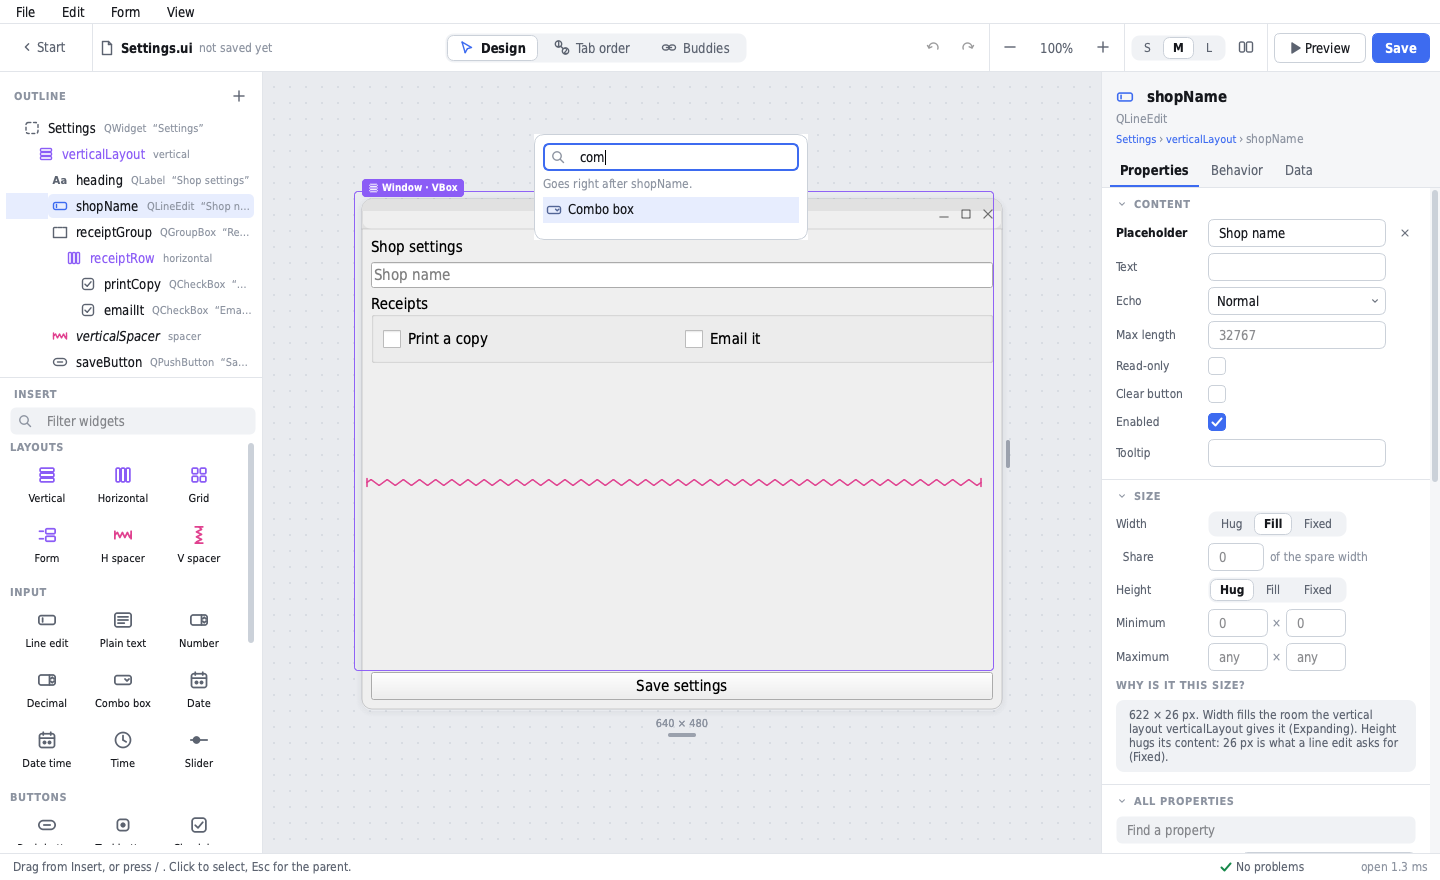
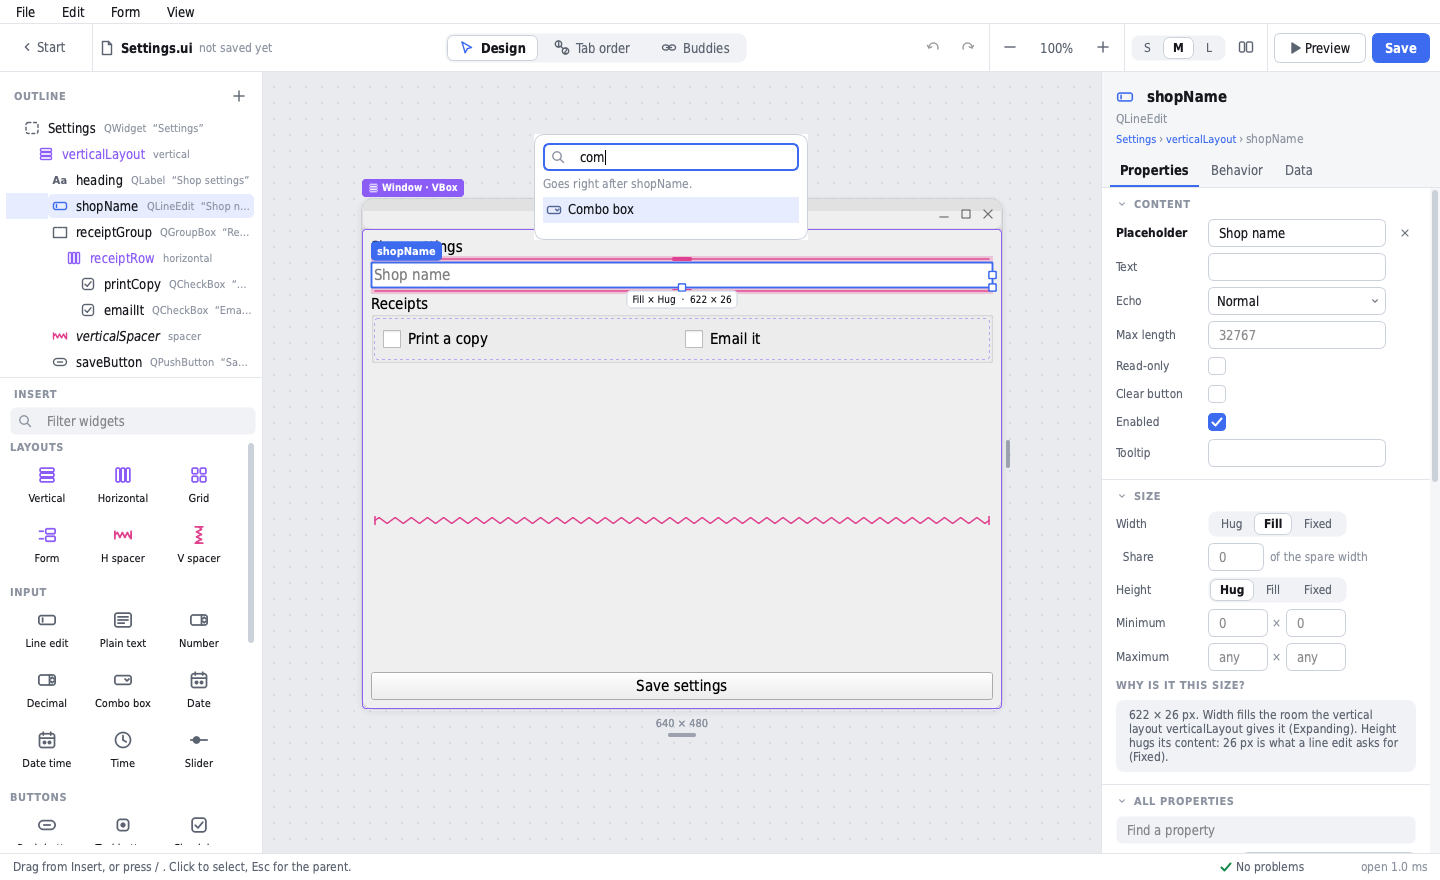
fix(form-builder): index after the form is shown, faster outline and problems, README
The hit index could record the form at the page corner when it was built
before the queued show ran; the form is now shown at once and watched for
moves. Outline rows reuse prebuilt flag sets, iter_nodes uses a stack,
problems() looks names up in a set, the tab-order list shows 40 rows.
Multi-select edits booleans with a tri-state box. The perf report also
records process time and the machine load. README and decisions updated.

Changed region(s): [[0.25, 0.2761, 0.7188, 0.3682], [0.6562, 0.583, 0.6875, 0.6136], [0.25, 0.5216, 0.2812, 0.5523]]

diff --git a/spikes/form_builder/inspector.py b/spikes/form_builder/inspector.py
@@ -1042,12 +1042,21 @@ class Inspector(QWidget):
         for widget in widgets[1:]:
             shared &= set(CURATED.get(widget.class_name, [])) | set(COMMON)
         for prop_name in sorted(shared):
-            values = {get_property(widget, prop_name).body.text if get_property(widget, prop_name) else "" for widget in widgets}
-            edit = QLineEdit(values.pop() if len(values) == 1 else "")
-            edit.setPlaceholderText("Mixed" if len(values) > 0 else "")
-            edit.setProperty("inspectorKey", f"multi:{prop_name}")
-            edit.editingFinished.connect(lambda name=prop_name, box=edit: self._set_many(widgets, name, box.text()))
-            self._row(grid, WORD_LABELS.get(prop_name, prop_name), edit)
+            live = [self._realized(widget.id) for widget in widgets]
+            values = {str(item.property(prop_name)) if item is not None else "" for item in live}
+            sample = live[0].property(prop_name) if live and live[0] is not None else None
+            if isinstance(sample, bool):
+                box = QCheckBox("Mixed" if len(values) > 1 else "")
+                box.setTristate(len(values) > 1)
+                box.setCheckState(Qt.PartiallyChecked if len(values) > 1 else (Qt.Checked if sample else Qt.Unchecked))
+                box.clicked.connect(lambda checked, name=prop_name: self._execute(SetProperties([w.id for w in widgets], name, prop_bool(name, checked))))
+                editor = box
+            else:
+                editor = QLineEdit(values.pop() if len(values) == 1 else "")
+                editor.setPlaceholderText("Mixed" if len(values) > 1 else "")
+                editor.editingFinished.connect(lambda name=prop_name, box=editor: self._set_many(widgets, name, box.text()))
+            editor.setProperty("inspectorKey", f"multi:{prop_name}")
+            self._row(grid, WORD_LABELS.get(prop_name, prop_name), editor)
         page.addWidget(section)
         size = Section("Size", "multi-size")
         size_grid = self._grid(size)
@@ -1125,19 +1134,22 @@ class Inspector(QWidget):
         listing.setDragDropMode(QAbstractItemView.InternalMove)
         listing.setFixedHeight(min(26 * max(len(order), 1) + 8, 220))
         listing.setUniformItemSizes(True)
-        for number, name in enumerate(order, start=1):
+        shown, rest = order[:40], order[40:]
+        for number, name in enumerate(shown, start=1):
             item = QListWidgetItem(f"{number}   {name}")
             item.setData(Qt.UserRole, name)
             listing.addItem(item)
 
         def reordered(*_args):
-            names = [listing.item(i).data(Qt.UserRole) for i in range(listing.count())]
+            names = [listing.item(i).data(Qt.UserRole) for i in range(listing.count())] + rest
             if names != order:
                 self._execute(SetTabStops(names))
 
         listing.model().rowsMoved.connect(reordered)
         if order:
             section.add(listing)
+            if rest:
+                section.add(label(f"…and {len(rest)} more. Use Tab order in the top bar to see them all on the form.", "Faint", wrap=True))
         else:
             listing.deleteLater()
             section.add(label("No fields yet. Inputs join the order as you add them.", "Small", wrap=True))

diff --git a/spikes/form_builder/model.py b/spikes/form_builder/model.py
@@ -371,30 +371,26 @@ def set_attribute(widget: Widget, name: str, text: str, kind: str = "string") ->
 
 
 def iter_nodes(doc: Document) -> Iterator[Node]:
-    def walk_widget(widget: Widget) -> Iterator[Node]:
-        yield widget
-        for part in widget.body:
-            if isinstance(part, Layout):
-                yield from walk_layout(part)
-            elif isinstance(part, Widget):
-                yield from walk_widget(part)
-            elif isinstance(part, Action):
-                yield part
-
-    def walk_layout(layout: Layout) -> Iterator[Node]:
-        yield layout
-        for part in layout.body:
-            if isinstance(part, LayoutItem):
-                yield part
-                for child in part.body:
-                    if isinstance(child, Widget):
-                        yield from walk_widget(child)
-                    elif isinstance(child, Layout):
-                        yield from walk_layout(child)
-                    elif isinstance(child, Spacer):
-                        yield child
-
-    yield from walk_widget(doc.root)
+    """Depth-first, document order. An explicit stack: nested generators cost O(depth) per node."""
+    stack = [doc.root]
+    while stack:
+        node = stack.pop()
+        yield node
+        if isinstance(node, Widget):
+            children = []
+            for part in node.body:
+                if isinstance(part, (Layout, Widget, Action)):
+                    children.append(part)
+            stack.extend(reversed(children))
+        elif isinstance(node, Layout):
+            children = []
+            for part in node.body:
+                if isinstance(part, LayoutItem):
+                    children.append(part)
+            stack.extend(reversed(children))
+        elif isinstance(node, LayoutItem):
+            children = [child for child in node.body if isinstance(child, (Widget, Layout, Spacer))]
+            stack.extend(reversed(children))
 
 
 def find_node(doc: Document, node_id: str):
@@ -562,7 +558,9 @@ def effective_tab_order(doc: Document) -> list[str]:
 def problems(doc: Document) -> list[str]:
     found = []
     seen: dict[str, int] = {}
-    for widget in iter_widgets(doc):
+    widgets = list(iter_widgets(doc))
+    known = {w.object_name for w in widgets}
+    for widget in widgets:
         name = widget.object_name
         if not valid_identifier(name):
             found.append(f"'{name or '(blank)'}' is not a Python identifier")
@@ -570,12 +568,11 @@ def problems(doc: Document) -> list[str]:
         buddy = get_property(widget, "buddy")
         if buddy is not None and buddy.body.tag == "cstring":
             target = buddy.body.text
-            if target and not any(w.object_name == target for w in iter_widgets(doc)):
+            if target and target not in known:
                 found.append(f"'{name}' buddies missing widget '{target}'")
     for name, count in seen.items():
         if name and count > 1:
             found.append(f"'{name}' is used {count} times")
-    known = {w.object_name for w in iter_widgets(doc)}
     stops = tabstops_of(doc)
     if stops:
         for name in stops.names:

diff --git a/spikes/form_builder/tests/test_perf.py b/spikes/form_builder/tests/test_perf.py
@@ -2,6 +2,7 @@
 
 from __future__ import annotations
 
+import os
 import resource
 import statistics
 import sys
@@ -43,12 +44,15 @@ class PerfBudgetTest(unittest.TestCase):
         rss_before = resource.getrusage(resource.RUSAGE_SELF).ru_maxrss
 
         opens = []
+        open_cpu = []
         for _index in range(5):
             started = time.perf_counter()
+            cpu_started = time.process_time()
             doc = load_path(str(FORM))
             window.load_document(doc, str(FORM))
             app.processEvents()
             opens.append((time.perf_counter() - started) * 1000)
+            open_cpu.append((time.process_time() - cpu_started) * 1000)
         widget_count = sum(1 for _widget in iter_widgets(window.doc))
         rss_after = resource.getrusage(resource.RUSAGE_SELF).ru_maxrss
         rss_delta = rss_after - rss_before
@@ -84,6 +88,8 @@ class PerfBudgetTest(unittest.TestCase):
         numbers = {
             "widgets": widget_count,
             "open_ms": opens,
+            "open_cpu_ms": open_cpu,
+            "load": os.getloadavg()[0],
             "insert_ms": inserts,
             "undo_ms": undos,
             "property_ms": props,
@@ -119,6 +125,7 @@ def _render(numbers) -> str:
         [
             f"widgets {numbers['widgets']}",
             "open " + span(numbers["open_ms"]) + "  budget 150",
+            "open cpu " + span(numbers["open_cpu_ms"]) + "  (process time; wall time above includes waiting for a busy machine)",
             "insert " + span(numbers["insert_ms"]) + "  budget 16",
             "property " + span(numbers["property_ms"]) + "  budget 16",
             "undo " + span(numbers["undo_ms"]) + "  budget 16",
@@ -126,6 +133,7 @@ def _render(numbers) -> str:
             f"rss extra {numbers['rss_extra_bytes'] / (1024 * 1024):.2f} MB  budget 30",
             "open times load plus the workbench, after QApplication already exists.",
             "edit times are command apply plus the canvas patch. The geometry index refreshes on the next pointer event.",
+            f"machine load average at the run: {numbers['load']:.1f}",
             "rss extra is ru_maxrss after five opens minus ru_maxrss of the empty window. It is a high-water mark, so it can include caches from the repeats. On macOS the unit is bytes.",
             "",
         ]

diff --git a/spikes/form_builder/outline.py b/spikes/form_builder/outline.py
@@ -60,6 +60,9 @@ ROLE_ID = Qt.UserRole
 ROLE_KIND = Qt.UserRole + 1
 ROLE_CLASS = Qt.UserRole + 2
 ROLE_HINT = Qt.UserRole + 3
+# PySide enum arithmetic runs in Python; build the flag sets once, not per row.
+FLAGS = Qt.ItemIsSelectable | Qt.ItemIsEnabled | Qt.ItemIsDragEnabled | Qt.ItemIsDropEnabled
+EDITABLE_FLAGS = FLAGS | Qt.ItemIsEditable
 
 
 class OutlineDelegate(QStyledItemDelegate):
@@ -185,7 +188,10 @@ class Outline(QTreeWidget):
             for part in self.doc.root.body:
                 if isinstance(part, Action):
                     root.addChild(self._action_item(part))
-            self._expand(root)
+            if self._collapsed:
+                self._expand(root)
+            else:
+                self.expandAll()
         self._quiet = False
         if selected:
             self.select_ids([node_id for node_id in selected if node_id in self._items], current_id)
@@ -203,10 +209,7 @@ class Outline(QTreeWidget):
         item.setData(0, ROLE_KIND, kind)
         item.setData(0, ROLE_CLASS, class_name)
         item.setData(0, ROLE_HINT, hint)
-        flags = Qt.ItemIsSelectable | Qt.ItemIsEnabled | Qt.ItemIsDragEnabled | Qt.ItemIsDropEnabled
-        if editable:
-            flags |= Qt.ItemIsEditable
-        item.setFlags(flags)
+        item.setFlags(EDITABLE_FLAGS if editable else FLAGS)
         self._items[node_id] = item
         return item
 

diff --git a/spikes/form_builder/canvas.py b/spikes/form_builder/canvas.py
@@ -906,6 +906,10 @@ class Surface(QGraphicsView):
         self.form.setPalette(runtime_palette())
         self.form.setFont(self.form_font)
         self.page_layout.addWidget(self.form)
+        # Show now: a hidden widget is skipped by its layout, and the hit index would
+        # record the form at the page corner until the queued show ran.
+        self.form.show()
+        self.form.installEventFilter(self)
         self.apply_size()
         self.index_dirty = True
         self.refresh_overlay()
@@ -1665,6 +1669,10 @@ class Surface(QGraphicsView):
 
     # -- events
     def eventFilter(self, watched, event):
+        if watched is self.form and event.type() in (QEvent.Resize, QEvent.Move, QEvent.LayoutRequest):
+            self.index_dirty = True
+            self.overlay.update()
+            return False
         if watched is not self.overlay or self.doc is None:
             return False
         kind = event.type()

diff --git a/spikes/form_builder/realize.py b/spikes/form_builder/realize.py
@@ -481,6 +481,10 @@ class Realization:
             return existing
         child = self._create_widget(node, parent, False)
         self._fill(node, child, False)
+        if parent is not None and parent.isVisible():
+            visible = get_property(node, "visible")
+            if visible is None or visible.body.text != "false":
+                child.show()
         return child
 
     # ------------------------------------------------------------- properties

diff --git a/spikes/form_builder/screenshots_capture.py b/spikes/form_builder/screenshots_capture.py
@@ -165,6 +165,13 @@ def main(only=()) -> None:
         settle(app)
         grab(window, "inspector-size.png", crop=(SIZE[0] - 520, 0, 520, SIZE[1]))
 
+    if want("window-selected"):
+        window.load_document(data_entry(), None)
+        settle(app)
+        window._select([window.doc.root.id])
+        settle(app)
+        grab(window, "window-selected.png")
+
     if want("empty-form"):
         window.load_document(blank_page(), None)
         settle(app)

diff --git a/spikes/form_builder/README.md b/spikes/form_builder/README.md
@@ -1,71 +1,97 @@
 # Form builder spike
 
-A throwaway PySide6 form builder for trying the editing feel, the `.ui` round trip, and the speed of a few hundred widgets. It does not change the rest of ChoreBoy Code Studio.
+A PySide6 form builder prototype for ChoreBoy Code Studio: the editing feel, the `.ui` round trip, generated `ui_<name>.py`, and the speed of a few hundred widgets. It does not change the rest of CBCS. The design is in [DESIGN.md](DESIGN.md).
 
 ## Run
 
 From the repository root:
 
 ```sh
-spikes/form_builder/run.sh
+spikes/form_builder/run.sh            # start screen
+spikes/form_builder/run.sh some.ui    # open a form directly
 ```
 
-That script uses FreeCAD 1.1.3 at `/Applications/FreeCAD.app` and its Python 3.11 with PySide6. The window opens on the start screen.
+The script uses FreeCAD 1.1.3 at `/Applications/FreeCAD.app` and its Python 3.11 with PySide6 6.8. The chrome follows the system light or dark setting (View > Appearance overrides it). The form on the canvas always draws with the runtime look (Fusion, standard light palette), whatever the chrome theme.
 
-Regenerate the sample database and the large form with:
+Regenerate the sample database and the 302-widget form with:
 
 ```sh
 /Applications/FreeCAD.app/Contents/Resources/bin/python spikes/form_builder/samples/make_samples.py
 ```
 
-## Tests
+## Tests, budgets, screenshots
 
 ```sh
-QT_QPA_PLATFORM=offscreen /Applications/FreeCAD.app/Contents/Resources/bin/python -m pytest spikes/form_builder/tests -q
+QT_QPA_PLATFORM=offscreen /Applications/FreeCAD.app/Contents/Resources/bin/python -m pytest spikes/form_builder/tests -q -p no:cacheprovider
+QT_QPA_PLATFORM=offscreen /Applications/FreeCAD.app/Contents/Resources/bin/python spikes/form_builder/screenshots_capture.py [name ...]
 ```
 
-The performance numbers are rewritten to `spikes/form_builder/perf_report.txt` and appended to `spikes/form_builder/perf.log`. The Designer corpus report is `spikes/form_builder/corpus_report.txt`.
+- `tests/test_commands.py`, `tests/test_oracle.py`: the command log, the writer, uic and QUiLoader oracles, the 67-file Designer corpus round trip.
+- `tests/test_ui_logic.py`: sizing words, paste into a layout, tab-order splicing, next free cell, buddies, layout morphing, Type here menus, generated Python for FreeCAD widgets, and the realizer reusing live widgets on wrap, unwrap, and first layout.
+- `tests/test_interaction.py`: gestures driven through real mouse and key events (drag to reorder, Alt-drag copy, gap drag, resize handles, tab-order clicks, buddy drag, Type here, in-place text, outline rename keeping focus, quick insert, wrap and unwrap, page edge).
+- `tests/test_perf.py` rewrites `perf_report.txt` and appends to `perf.log`.
+
+Screenshots are written to `screenshots/`: start (light and dark), from-table, workbench light and dark, window-selected (margins and anchors), drag-box, drag-grid, drag-form, layout-selected (gaps), empty-form, empty-group, wrap-menu, quick-insert, inspector-size, inspector-behavior, inspector-data, tab-order, buddy, main-window-menu, two-widths.
 
 ## What works
 
-The source of truth is a Qt 6 `.ui` file. Opening one builds an in-memory document with no Qt types. Every edit goes through the undo log. Save writes the `.ui` file and `ui_<name>.py` next to it. Preview opens a real window from that generated module. Create window class writes `<name>_window.py` once and leaves an existing file alone.
+**Start screen.** Templates with painted wireframes (data entry, list and detail, table with search, dialog), blank widget, main window and dialog (each already laid out), Build a form from a table, Open a .ui file, recent files, and a short key list.
 
-The start screen offers four templates, a blank widget, a blank main window, Open, and Build layout from a table. The table flow reads `samples/shop.sqlite` (customers and invoices) or another SQLite file, shows the column mapping, and builds a form layout with buddies, tab order, and a button box.
+**Build from a table.** Pick a SQLite table, choose per column whether to include it, what it shows as, and its label; a live preview renders the result. The form comes out as a form layout with buddies, tab order, and OK / Cancel.
 
-The workbench has an outline, a filterable widget box, a live canvas, and an inspector. Dropping a widget shows an insertion line. Dropping into a container that has no layout creates a vertical layout. Layouts are framed and labeled. Zoom runs from 50% to 200%. Two widths shows the form at 420 and 760. The inspector edits common properties, a plain-language size policy, and the long tail from the widget's meta object. Signals mode lists connections and can add or remove a simple one.
+**Workbench.**
+- Outline: glyph, name and a muted class and text hint per row; layouts in violet, spacers in pink. Drag rows to reorder or reparent (on a row = into it, between rows = beside it).
+- Insert palette: icon tiles by category. Drag a tile to the canvas, or double-click it to insert after the selection.
+- Canvas: real widgets on a page card with the window title, a dot-grid backdrop, zoom (Ctrl+wheel, top bar). Layout frames are faint everywhere and explicit (chip, margins, gaps) around what you are looking at. Spacers draw as springs. Empty layouts stay big enough to drop into and say so.
+- Selection: name chip, a plain-words size badge (`Fill × Hug · 565 × 26`), and right, bottom and corner handles that write a Fixed size; double-click a handle to go back to Hug.
+- Drops: an insertion line in boxes, a target cell in grids (only the dragged item changes cell), label/field halves and new rows in forms, panes in splitters, and "makes a vertical layout" for a bare container. Alt-drag copies.
+- Gaps: pink bars between neighbours, draggable (4 px steps, Alt 1 px, Shift 8 px). A selected container shows its margins; the window's root layout also shows its anchors to the four edges.
+- The page's right and bottom edges resize the window (root geometry, one undo step) so you can watch the layout follow.
+- Text-size preview (S / M / L) and a two-widths view (420 and 760 px side by side).
+- Tab order overlay: numbered badges and a flow line; click fields in order, Shift-click to start from one, Esc to leave. New inputs join a saved order where they sit.
+- Buddies overlay: links from labels to fields; drag from a label to a field. "Pair labels with their fields" does the form rows in one step.
+- Main windows: click a menu title to open it on the canvas, Type here to add menus and actions (`-` adds a separator).
+- Inspector: header with an inline name field and breadcrumb; tabs Properties, Behavior, Data. Properties has Content (curated per class, enums as words), Size (Hug / Fill / Fixed per axis, Share, minimum and maximum with blank meaning "not set", a "why is it this size?" sentence), Layout (kind, gaps, margins, grid column and row sizes as numbers, Remove layout behind a confirm), and a searchable All properties list. Every Reset deletes the line. With nothing selected it shows the window: title, size, tab order list, problems, and files. Behavior lists and adds signal → slot connections; Data shows what the logic phase will add.
+- Wrap (Ctrl+G) is a popover of six tiles; unwrap (Ctrl+Shift+G) puts children back. Paste and duplicate go into the layout after the selection and select the result. Toasts offer Undo after deletes and wraps.
+- Save writes the `.ui` and `ui_<name>.py`; Create window class writes `<name>_window.py` once; Preview runs the generated module.
+
+**Plumbing changed for the UI.** The realizer reconciles by moving existing widgets (wrap, unwrap, nest, and first layout no longer rebuild a subtree). New commands: layout attributes, item cells, body parts for menus, tab splicing, buddy pairing, layout morphing, remove layout. The generator now imports FreeCAD `Gui::` widgets through `FreeCADGui.UiLoader` (Qt base class as fallback), imports promoted Python classes from their header path, writes margins with `setContentsMargins`, emits layout stretch attributes, and no longer crashes on main windows: 61 of the 67 FreeCAD corpus forms run their generated `setupUi` (15 before).
 
 ## Keyboard
 
 | Key | Action |
 | --- | --- |
-| Arrows | Move the outline selection |
-| Tab | Nest into the previous sibling container |
-| Shift+Tab | Un-nest |
-| Alt+Up or Alt+Down | Reorder in the outline |
-| F2 | Rename in the outline |
-| / | Quick insert |
-| Delete | Delete the selection |
-| Escape | Select the parent |
-| Command+Z, Command+Shift+Z | Undo, redo |
-| Command+C, Command+V | Copy, paste into the selected layout |
-| Command+D | Duplicate |
-| Command+S | Save `.ui` and `ui_<name>.py` |
-| Command+R | Preview |
-| Control+G | Wrap in a layout or container |
-| Control+Shift+G | Unwrap |
+| Up / Down | Move in the outline; on the canvas, walk siblings |
+| Enter / Esc | Into the first child / up to the parent (Esc also leaves Tab order and Buddies) |
+| Tab / Shift+Tab | Nest into the previous container / un-nest (outline) |
+| Alt+Up / Alt+Down | Move within the layout (rows swap in forms and grids) |
+| F2 | Rename in the outline; edit the visible text on the canvas |
+| Shift+F2 | Rename from anywhere (inspector name field) |
+| / | Quick insert after the selection |
+| Delete / Backspace | Delete (toast offers Undo) |
+| Cmd+X / C / V / D | Cut / copy / paste into the layout / duplicate |
+| Ctrl+G / Ctrl+Shift+G | Wrap / unwrap (physical Control on macOS) |
+| Cmd+Z / Cmd+Shift+Z | Undo / redo |
+| Cmd+S / Cmd+R | Save .ui and ui_<name>.py / preview |
+| Cmd+1 / 2 / 3 | Design / Tab order / Buddies |
+| Cmd+= / Cmd+- / Cmd+0 | Zoom in / out / 100% |
+| Up / Down in number fields | Step by 1, Shift by 10; drag a field's label sideways to scrub |
 
-On macOS, Command is the usual shortcut modifier. Wrap stays on the physical Control key.
+## User pains (docs/form_builder/research/P_user_pain_points.md)
+
+Solved in the spike: 1 layout on drop, 2 size words with Reset deleting the line, 3 paste into a layout, 4 rows you can hit and tree reparenting, 5 no break-layout step (Remove layout asks first), 12 text-size preview with no pixel geometry, 13 overlays instead of sticky modes and connections in the inspector, 14 gaps as numbers and drag handles with visible springs, 18 enum editors that commit, 20 tab order that follows the picture and leaves with Esc, 21 grid drops that move only the dragged item, 25 rename keeps the keyboard. Delighters: Hug / Fill / Fixed, selectable gaps, anchors drawn on the window, tree reparenting, column sizes as numbers, modifier-key nudges, next drop fills the next cell, Reset deletes the line, live canvas on the same file.
+
+Partly: 16 connections are a normal list (no signature check before save yet), 17 Type here works on menus (actions do not drag onto toolbars yet), 19 splitters take drops and Share, but the canvas does not drag splitter handles.
+
+Not in this spike: 6–11, 15, 22–24 (logic-file stubs, promotion dialog, style sheet matches, resources, packaging, out-of-process preview, completion stubs, slot-name checks).
 
 ## Known gaps
 
-- A structural edit that adds or removes a layout still rebuilds that widget's subtree. Insert, delete, and reorder of a widget inside an existing layout are patched.
-- The geometry index used for hit testing refreshes on the next pointer event, not during the edit itself.
-- Tab order can be reset, and clicking a widget in tab mode moves it to the end of the order. It is not Designer's full restart-from-here editor.
-- Buddy mode accepts a drag from a label to a field, and the inspector can set the buddy by name.
-- The menu on a main window is an action list, not Designer's inline "Type here" editor.
-- Custom FreeCAD widgets such as `Gui::InputField` are preserved in the file and fall back to their base class when Qt builds the preview. The generator emits the short class name, so those files are not imported as Python.
-- Screenshots are offscreen grabs. The insertion line is composited from the overlay because a graphics-view grab can miss a translucent child until it is repainted on its own.
-
-## Samples
-
-`samples/shop.sqlite` has customers and invoices. `samples/big_form.ui` is the 302-widget form used for the budgets.
+- Out-of-process preview: Preview still runs in the editor's process.
+- Splitter handles cannot be dragged on the canvas, and tab pages cannot be reordered from the outline.
+- Actions cannot be dragged onto toolbars; the toolbar has no Type here.
+- Structural edits to a main window's menu bar or toolbar rebuild the whole canvas (small forms only).
+- The "content size" command from pain 14 and a style sheet editor are not built.
+- Six FreeCAD corpus forms still fail to run their generated Python (custom-widget properties set on a fallback base class, a `QTableWidget` item list).
+- Two-widths shrinks the wide view to fit; there is no shared selection chrome between the two views.
+- Screenshots are offscreen grabs with the overlays and popups composited on top; native window chrome and the macOS menu bar are not in them.
